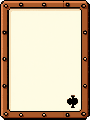
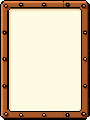
alfa 6c4c032: Fans of Swipe: fuera la pica negra que la IA pintó en el marco de la carta (repo

Changed region(s): [[0.7333, 0.775, 0.8667, 0.9]]

diff --git a/alfa/index.html b/alfa/index.html
@@ -10,10 +10,10 @@
 <link rel="preconnect" href="https://fonts.googleapis.com">
 <link rel="preconnect" href="https://fonts.gstatic.com" crossorigin>
 <link rel="stylesheet" href="https://fonts.googleapis.com/css2?family=Baloo+2:wght@600;700;800&family=Luckiest+Guy&display=swap">
-<link rel="stylesheet" href="core/css/base.css?v=f74f6b1">
-<link rel="stylesheet" href="biblioteca/tienda.css?v=f74f6b1">
-<link rel="stylesheet" href="novedades/ventana.css?v=f74f6b1">
-<link rel="stylesheet" href="biblioteca/votos.css?v=f74f6b1">
+<link rel="stylesheet" href="core/css/base.css?v=6c4c032">
+<link rel="stylesheet" href="biblioteca/tienda.css?v=6c4c032">
+<link rel="stylesheet" href="novedades/ventana.css?v=6c4c032">
+<link rel="stylesheet" href="biblioteca/votos.css?v=6c4c032">
 <style>
   /* la entrada de la web: una tarjeta por juego, con los colores y las letras de core */
   body { overflow: auto; touch-action: auto; align-items: flex-start; background-repeat: no-repeat; background-attachment: fixed; }
@@ -61,7 +61,7 @@
 </style>
 </head>
 <body>
-<script src="menu.js?v=f74f6b1" data-base="" data-core="1" data-pagina=""></script>
+<script src="menu.js?v=6c4c032" data-base="" data-core="1" data-pagina=""></script>
 <div class="nov-fondo" id="novedades" hidden>
   <div class="nov-caja" role="dialog" aria-modal="true" aria-labelledby="nov-titulo">
     <div class="nov-cabeza"><h2 class="ol" id="nov-titulo">NOVEDADES</h2><p id="nov-sub"></p></div>
@@ -333,8 +333,8 @@
   </section>
   <p class="note" id="pie-fansof">Fans Of™ · © 2026 Arkioner y Pepins · MicroBlizz · Todos los derechos reservados</p>
 </main>
-<script src="core/js/nucleo.js?v=0-a628.f74f6b1"></script>
-<script src="core/js/novedades.js?v=f74f6b1"></script>
+<script src="core/js/nucleo.js?v=0-a629.6c4c032"></script>
+<script src="core/js/novedades.js?v=6c4c032"></script>
 <script>
 // La cuenta de la web es la misma de los juegos (core/js/sistema/cuenta.js, mismo navegador = misma sesión). Aquí no hay partida que subir.
 const AJUSTES = { id: 'web', guardado: 'fansof-web' }, SAVE_KEY = AJUSTES.guardado, SAVE = {};
@@ -343,7 +343,7 @@ const HOOKS = {};
 function hook(name, fn) { (HOOKS[name] = HOOKS[name] || []).push(fn); }
 function fire(name, ...a) { let out = ''; for (const fn of HOOKS[name] || []) { const r = fn(...a); if (typeof r === 'string') out += r; } return out; }
 </script>
-<script src="core/js/sistema/cuenta.js?v=f74f6b1"></script>
+<script src="core/js/sistema/cuenta.js?v=6c4c032"></script>
 <script>NUCLEO.idiomaSolo({ en: ['core/idioma/en-raiz.js', 'novedades/en.js', 'biblioteca/en.js','games/rumble/idioma/en-7.js', 'games/td/idioma/en-2.js', 'games/survivors/idioma/en.js', 'games/crush/idioma/en-raiz.js', 'games/jump/idioma/en-raiz.js', 'games/taxi/idioma/en-raiz.js', 'games/dark/idioma/en-raiz.js', 'games/nova/idioma/en-raiz.js', 'demos/beams/idioma/en-raiz.js', 'demos/snakes/idioma/en-raiz.js', 'demos/merge/idioma/en-raiz.js', 'demos/swipe/idioma/en-raiz.js', 'demos/vikings/idioma/en-raiz.js', 'demos/goose/idioma/en-raiz.js', 'demos/asalto/idioma/en-raiz.js', 'demos/auto/idioma/en-raiz.js', 'games/island/idioma/en-raiz.js', 'demos/rumble-3d/idioma/en-raiz.js', 'demos/roguelite/idioma/en-raiz.js', 'demos/tactics-advance/idioma/en-raiz.js', 'games/rouflage/idioma/en-raiz.js', 'demos/dungeons/idioma/en-raiz.js', 'games/karts/idioma/en-raiz.js', 'demos/recruit/idioma/en-raiz.js', 'demos/terminal-shock/idioma/en-raiz.js', 'games/ratkov/idioma/en-raiz.js'] })</script>
 <script>
 // La versión y las novedades salen de los archivos de cada juego, así que esta página nunca se queda atrás.
@@ -369,14 +369,14 @@ const fail = id => () => {
 };
 
 </script>
-<script src="core/js/proximamente.js?v=f74f6b1"></script>
-<script src="novedades/ventana.js?v=f74f6b1"></script>
-<script src="biblioteca/tienda.js?v=f74f6b1"></script>
-<script src="core/js/sistema/beta.js?v=f74f6b1"></script>
-<script src="biblioteca/cuenta-web.js?v=f74f6b1"></script>
-<script src="biblioteca/votos.js?v=f74f6b1"></script>
-<script src="biblioteca/alfa.js?v=f74f6b1"></script>
-<script src="core/js/sistema/analitica.js?v=f74f6b1"></script>
-<script src="pie.js?v=f74f6b1" defer></script>
+<script src="core/js/proximamente.js?v=6c4c032"></script>
+<script src="novedades/ventana.js?v=6c4c032"></script>
+<script src="biblioteca/tienda.js?v=6c4c032"></script>
+<script src="core/js/sistema/beta.js?v=6c4c032"></script>
+<script src="biblioteca/cuenta-web.js?v=6c4c032"></script>
+<script src="biblioteca/votos.js?v=6c4c032"></script>
+<script src="biblioteca/alfa.js?v=6c4c032"></script>
+<script src="core/js/sistema/analitica.js?v=6c4c032"></script>
+<script src="pie.js?v=6c4c032" defer></script>
 </body>
 </html>

diff --git a/alfa/games/rouflage/index.html b/alfa/games/rouflage/index.html
@@ -10,7 +10,7 @@
 <link rel="preconnect" href="https://fonts.googleapis.com">
 <link rel="preconnect" href="https://fonts.gstatic.com" crossorigin>
 <link rel="stylesheet" href="https://fonts.googleapis.com/css2?family=Baloo+2:wght@600;700;800&family=Luckiest+Guy&display=swap">
-<script src="../../core/js/nucleo.js?v=0.2.62-a628.f74f6b1"></script>
+<script src="../../core/js/nucleo.js?v=0.2.62-a629.6c4c032"></script>
 <script>NUCLEO.estilos('../../core/css/base.css', '../../core/css/menus.css', '../../core/css/menus-extra.css')</script>
 <script>NUCLEO.estilos('estilo.css', 'estilo-taller.css', 'estilo-pantallas.css', 'estilo-pvp.css', 'estilo-armario.css', 'estilo-menus.css', 'estilo-misiones.css', 'estilo-escenario.css', 'estilo-votos.css', 'estilo-gacha.css', 'estilo-compra.css', 'estilo-fin.css', 'estilo-talentos.css', 'estilo-chat.css', 'estilo-titulo.css', 'estilo-barra.css', 'estilo-sala-viva.css', 'estilo-obra.css', 'estilo-ayuda.css', 'estilo-carga.css')</script>      <!-- la intro, la última: pisa el #carga de estilo.css (antes iba en línea dentro de #carga) -->
 </head>

diff --git a/alfa/games/karts/index.html b/alfa/games/karts/index.html
@@ -8,7 +8,7 @@
 <meta name="description" content="Fans of Karts (juego): carreras de karts en pixel art de consola portátil con los líderes de Fans of Rumble. Tres pistas, seis pilotos, objetos con mala idea y Microblizz, que ha comprado la carrera.">
 <link rel="icon" type="image/png" href="img/icon-192.png">
 <link rel="apple-touch-icon" href="img/icon-192.png">
-<script src="../../core/js/nucleo.js?v=0.7.13-a628.f74f6b1"></script>
+<script src="../../core/js/nucleo.js?v=0.7.13-a629.6c4c032"></script>
 <script>NUCLEO.estilos('../../core/css/base.css', '../../core/css/menus.css', '../../core/css/menus-tienda.css', '../../core/css/menus-extra.css', 'css/tienda.css', 'css/pvp.css')</script>
 <link rel="stylesheet" href="https://fonts.googleapis.com/css2?family=Baloo+2:wght@600;700;800&family=Luckiest+Guy&display=swap">
 <style>

diff --git a/alfa/games/dark/index.html b/alfa/games/dark/index.html
@@ -12,7 +12,7 @@
 <link rel="stylesheet" href="https://fonts.googleapis.com/css2?family=Baloo+2:wght@600;700;800&family=Luckiest+Guy&family=Press+Start+2P&family=Pixelify+Sans:wght@400;600;700&display=swap">
 <link rel="stylesheet" href="css/dark.css?v=0.2.4">
 <!-- Prototipo: no usa NUCLEO (tiene su propia partida guardada). Carga de core el arte, la música, los efectos y las cifras del Rumble.
-     VERSIÓN para desplegar.py (que la busca así): nucleo.js?v=0.2.7-a628.f74f6b1' (aquí solo se anota; súbela junto al ?v= de los scripts). -->
+     VERSIÓN para desplegar.py (que la busca así): nucleo.js?v=0.2.7-a629.6c4c032' (aquí solo se anota; súbela junto al ?v= de los scripts). -->
 </head>
 <body>
 <canvas id="cv" aria-label="Mazmorra"></canvas>

diff --git a/alfa/games/rumble/index.html b/alfa/games/rumble/index.html
@@ -16,7 +16,7 @@
 <link rel="preconnect" href="https://fonts.gstatic.com" crossorigin>
 <link rel="stylesheet" href="https://fonts.googleapis.com/css2?family=Baloo+2:wght@600;700;800&family=Luckiest+Guy&display=swap">
 <!-- core/js/nucleo.js carga lo común y el juego. LA VERSIÓN SE ESCRIBE SOLO AQUÍ, en su ?v= -->
-<script src="../../core/js/nucleo.js?v=0.9.156-a628.f74f6b1"></script>
+<script src="../../core/js/nucleo.js?v=0.9.156-a629.6c4c032"></script>
 <script>NUCLEO.estilos('../../core/css/menus.css', 'css/estilos-partida.css', 'css/estilos-extra.css', 'css/arena.css', '../../core/css/biblioteca.css', 'css/facciones-y-jefes.css', '../../core/css/clasificacion.css', 'css/frases.css', 'css/mitica.css', 'css/paletas.css')</script>
 
 </head>

diff --git a/alfa/games/jump/index.html b/alfa/games/jump/index.html
@@ -12,7 +12,7 @@
 <link rel="preconnect" href="https://fonts.gstatic.com" crossorigin>
 <link rel="stylesheet" href="https://fonts.googleapis.com/css2?family=Baloo+2:wght@600;700;800&family=Luckiest+Guy&display=swap">
 <!-- ?v= es la versión del juego (la misma en la web y en la app): súbela al publicar y pon su entrada en js/novedades.js -->
-<script src="../../core/js/nucleo.js?v=0.3.14-a628.f74f6b1"></script>
+<script src="../../core/js/nucleo.js?v=0.3.14-a629.6c4c032"></script>
 <script>NUCLEO.estilos('../../core/css/base.css', '../../core/css/menus.css')</script>
 <style>
 /* Fans of Jump: un solo canvas a la resolución real de la pantalla, con los dibujos 3D. El mundo mide unos 200 de ancho y se

diff --git a/alfa/games/decks/index.html b/alfa/games/decks/index.html
@@ -15,7 +15,7 @@
 <link rel="preconnect" href="https://fonts.gstatic.com" crossorigin>
 <link rel="stylesheet" href="https://fonts.googleapis.com/css2?family=Baloo+2:wght@600;700;800&family=Luckiest+Guy&display=swap">
 <!-- core/js/nucleo.js carga lo común y el juego. LA VERSIÓN SE ESCRIBE SOLO AQUÍ, en su ?v= -->
-<script src="../../core/js/nucleo.js?v=0.2.19-a628.f74f6b1"></script>
+<script src="../../core/js/nucleo.js?v=0.2.19-a629.6c4c032"></script>
 <script>NUCLEO.estilos('../../core/css/base.css', '../../core/css/menus.css', 'css/decks.css', 'css/decks-reunion.css', 'css/decks-anim.css', 'css/decks-campana.css', 'css/decks-lideres.css')</script>
 </head>
 <body>

diff --git a/alfa/demos/goose/index.html b/alfa/demos/goose/index.html
@@ -10,7 +10,7 @@
 <link rel="preconnect" href="https://fonts.gstatic.com" crossorigin>
 <link rel="stylesheet" href="https://fonts.googleapis.com/css2?family=Pixelify+Sans:wght@500;700&family=Pirata+One&display=swap">
 <!-- ?v= es la versión de la demo: súbela al publicar -->
-<script src="../../core/js/nucleo.js?v=0.3.0-a628.f74f6b1"></script>
+<script src="../../core/js/nucleo.js?v=0.3.0-a629.6c4c032"></script>
 <script>NUCLEO.estilos('../../core/css/base.css', '../../core/css/menus.css')</script>
 <style>
 /* Fans of Goose: un solo canvas en vertical, a la resolución real del móvil. El mundo mide 200 de ancho. */

diff --git a/alfa/games/ratkov/index.html b/alfa/games/ratkov/index.html
@@ -13,7 +13,7 @@
 <link rel="preconnect" href="https://fonts.gstatic.com" crossorigin>
 <link rel="stylesheet" href="https://fonts.googleapis.com/css2?family=VT323&family=Russo+One&display=swap">
 <script src="https://cdnjs.cloudflare.com/ajax/libs/three.js/r128/three.min.js"></script>
-<script src="../../core/js/nucleo.js?v=0.2.27-a628.f74f6b1"></script>
+<script src="../../core/js/nucleo.js?v=0.2.27-a629.6c4c032"></script>
 <script>NUCLEO.estilos('../../core/css/base.css', '../../core/css/menus.css')</script>
 <link rel="stylesheet" href="estilo.css?v=0.2.3">
 <link rel="stylesheet" href="estilo-refugio.css?v=0.2.3">

diff --git a/alfa/games/survivors/index.html b/alfa/games/survivors/index.html
@@ -15,7 +15,7 @@
 <link rel="preconnect" href="https://fonts.gstatic.com" crossorigin>
 <link rel="stylesheet" href="https://fonts.googleapis.com/css2?family=Baloo+2:wght@600;700;800&family=Luckiest+Guy&display=swap">
 <!-- core/js/nucleo.js carga lo común y el juego. LA VERSIÓN SE ESCRIBE SOLO AQUÍ, en su ?v= -->
-<script src="../../core/js/nucleo.js?v=0.1.69-a628.f74f6b1"></script>
+<script src="../../core/js/nucleo.js?v=0.1.69-a629.6c4c032"></script>
 <script>NUCLEO.estilos('../../core/css/base.css', '../../core/css/menus.css', 'css/survivors.css', '../../core/css/biblioteca.css')</script>
 </head>
 <body>

diff --git a/alfa/games/td/index.html b/alfa/games/td/index.html
@@ -15,7 +15,7 @@
 <link rel="preconnect" href="https://fonts.gstatic.com" crossorigin>
 <link rel="stylesheet" href="https://fonts.googleapis.com/css2?family=Baloo+2:wght@600;700;800&family=Luckiest+Guy&display=swap">
 <!-- core/js/nucleo.js carga lo común y el juego. LA VERSIÓN SE ESCRIBE SOLO AQUÍ, en su ?v= -->
-<script src="../../core/js/nucleo.js?v=0.13.85-a628.f74f6b1"></script>
+<script src="../../core/js/nucleo.js?v=0.13.85-a629.6c4c032"></script>
 <script>NUCLEO.estilos('../../core/css/base.css', 'css/td.css', '../../core/css/menus.css', '../../core/css/biblioteca.css')</script>
 </head>
 <body>

diff --git a/alfa/demos/snakes/index.html b/alfa/demos/snakes/index.html
@@ -10,7 +10,7 @@
 <link rel="preconnect" href="https://fonts.gstatic.com" crossorigin>
 <link rel="stylesheet" href="https://fonts.googleapis.com/css2?family=Baloo+2:wght@600;700;800&display=swap">
 <!-- ?v= es la versión de la demo: súbela al publicar -->
-<script src="../../core/js/nucleo.js?v=0.2.1-a628.f74f6b1"></script>
+<script src="../../core/js/nucleo.js?v=0.2.1-a629.6c4c032"></script>
 <script>NUCLEO.estilos('../../core/css/base.css', '../../core/css/menus.css')</script>
 <style>
 /* Fans of Snakes: un solo canvas en vertical, a la resolución real del móvil. El mundo mide 200 de ancho. */
